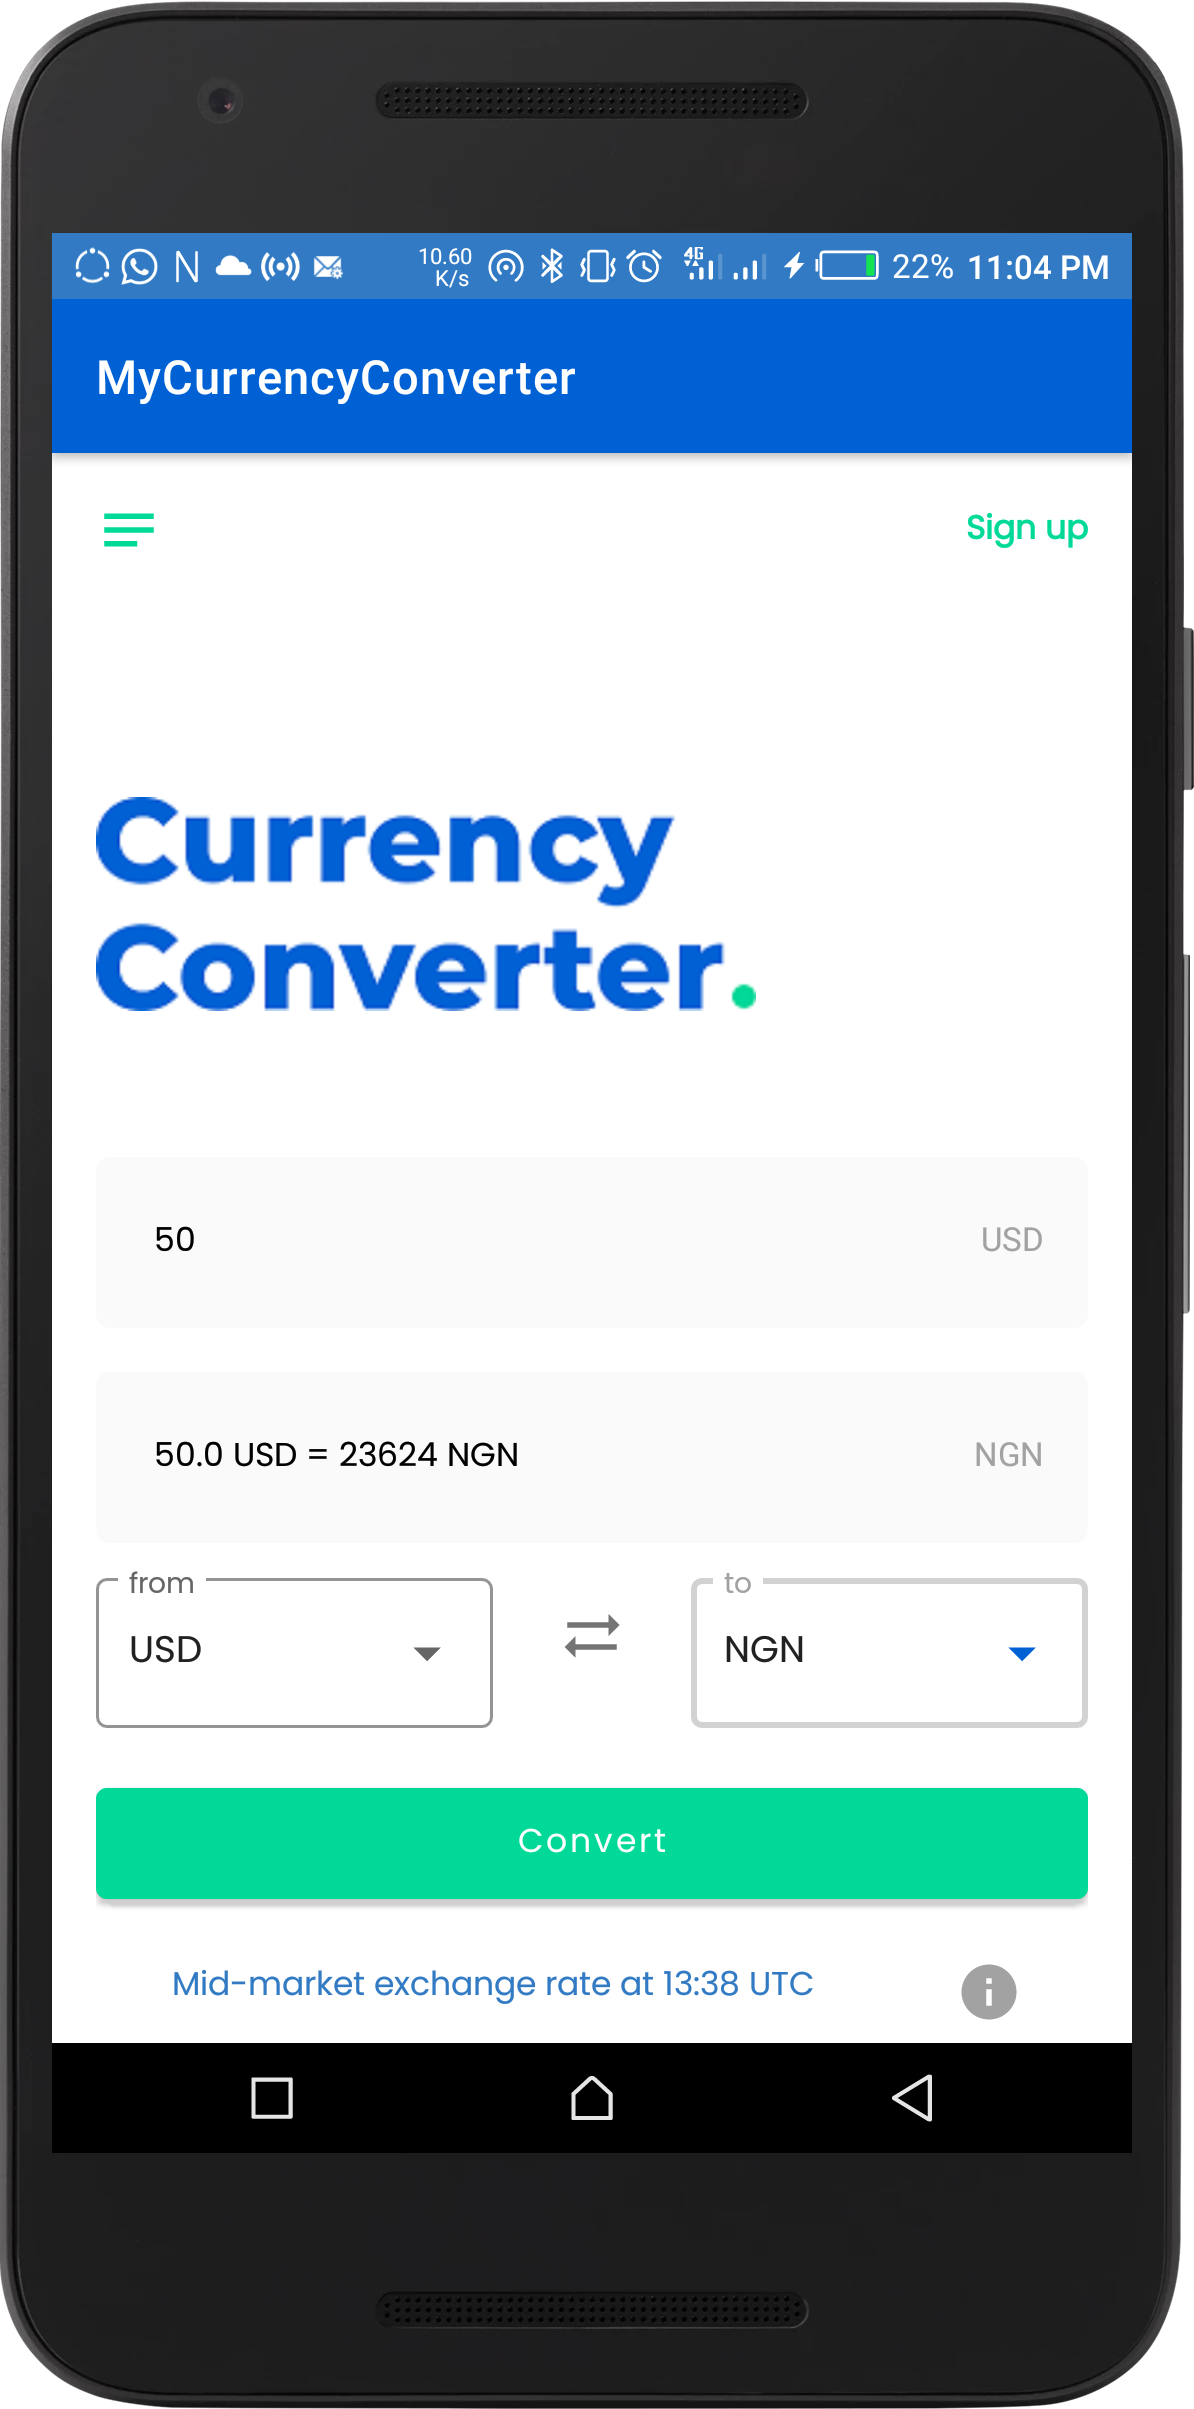
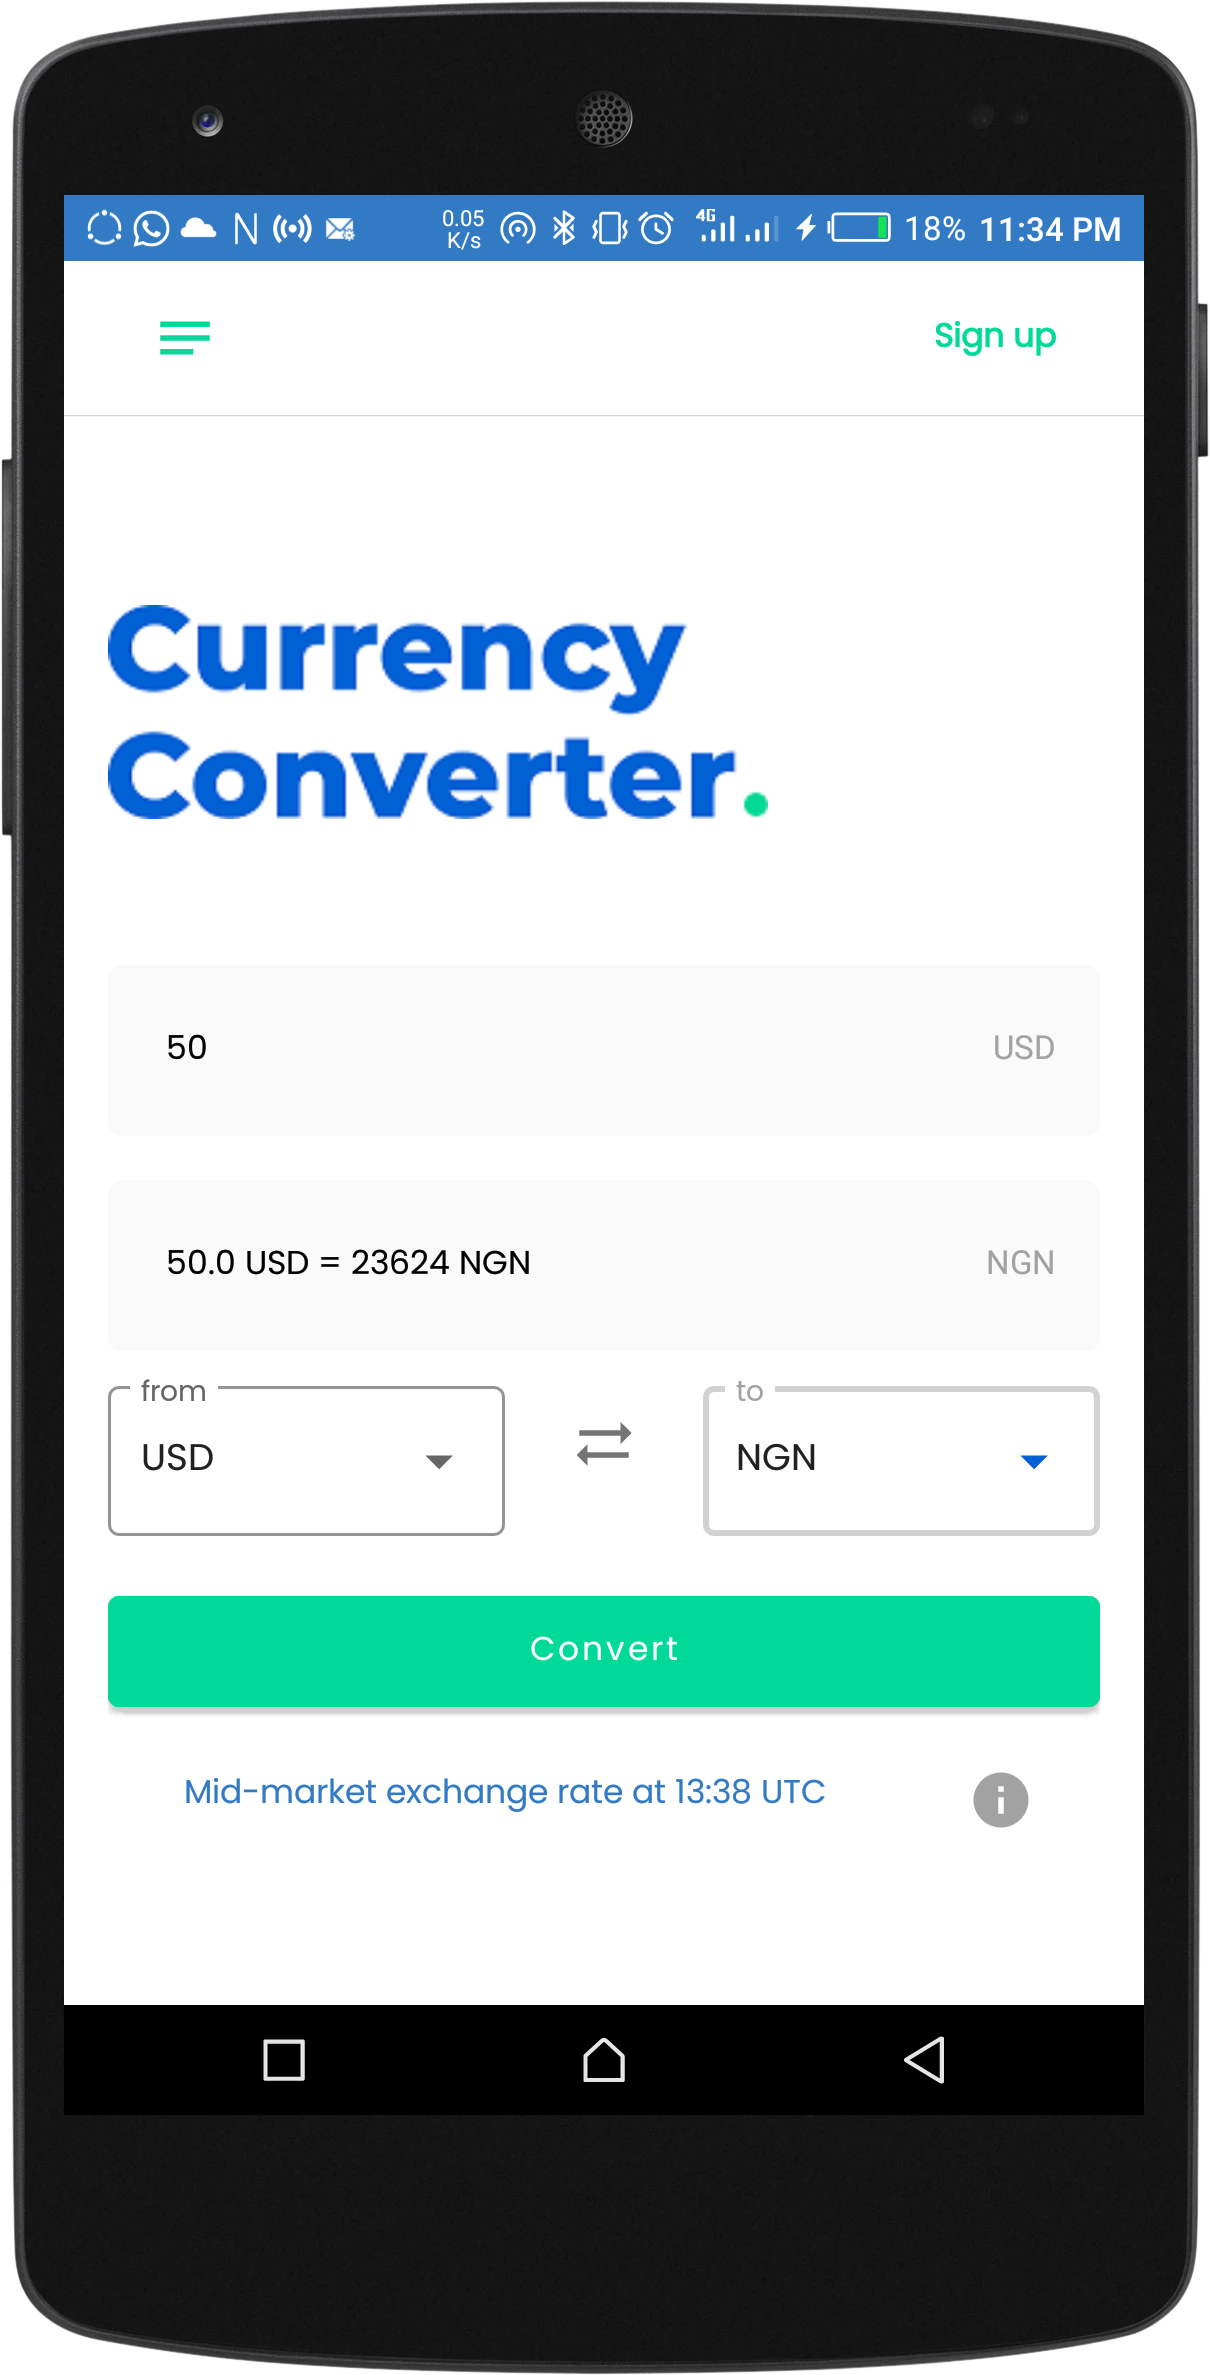
[fix] currency itemselected listener [fix] app main layout

diff --git a/app/src/main/java/com/itech/mycurrencyconverter/MainActivity.kt b/app/src/main/java/com/itech/mycurrencyconverter/MainActivity.kt
@@ -7,6 +7,7 @@ import android.util.Log
 import android.widget.ArrayAdapter
 import android.widget.Toast
 import androidx.activity.viewModels
+import androidx.appcompat.app.ActionBar
 import androidx.lifecycle.lifecycleScope
 import com.google.android.material.snackbar.Snackbar
 import com.itech.mycurrencyconverter.databinding.ActivityMainBinding
@@ -28,6 +29,7 @@ class MainActivity : AppCompatActivity() {
         super.onCreate(savedInstanceState)
         bindings = ActivityMainBinding.inflate(layoutInflater)
         setContentView(bindings.root)
+        setupActionBar()
         progressDialog = ProgressDialog(this);
         setCurrencyToSpinner1()
 
@@ -65,6 +67,15 @@ class MainActivity : AppCompatActivity() {
                 }
             }
         }
+    }
+
+    private fun setupActionBar() {
+        val actionBar: ActionBar? = this.supportActionBar
+        actionBar?.setDisplayOptions(ActionBar.DISPLAY_SHOW_CUSTOM)
+        actionBar?.setDisplayShowCustomEnabled(true)
+        actionBar?.setCustomView(R.layout.app_bar)
+        actionBar?.elevation = 1.8f
+        actionBar?.setBackgroundDrawable(getDrawable(R.drawable.app_bar_bg))
     }
 
     private fun setCurrencyToSpinner1() {
